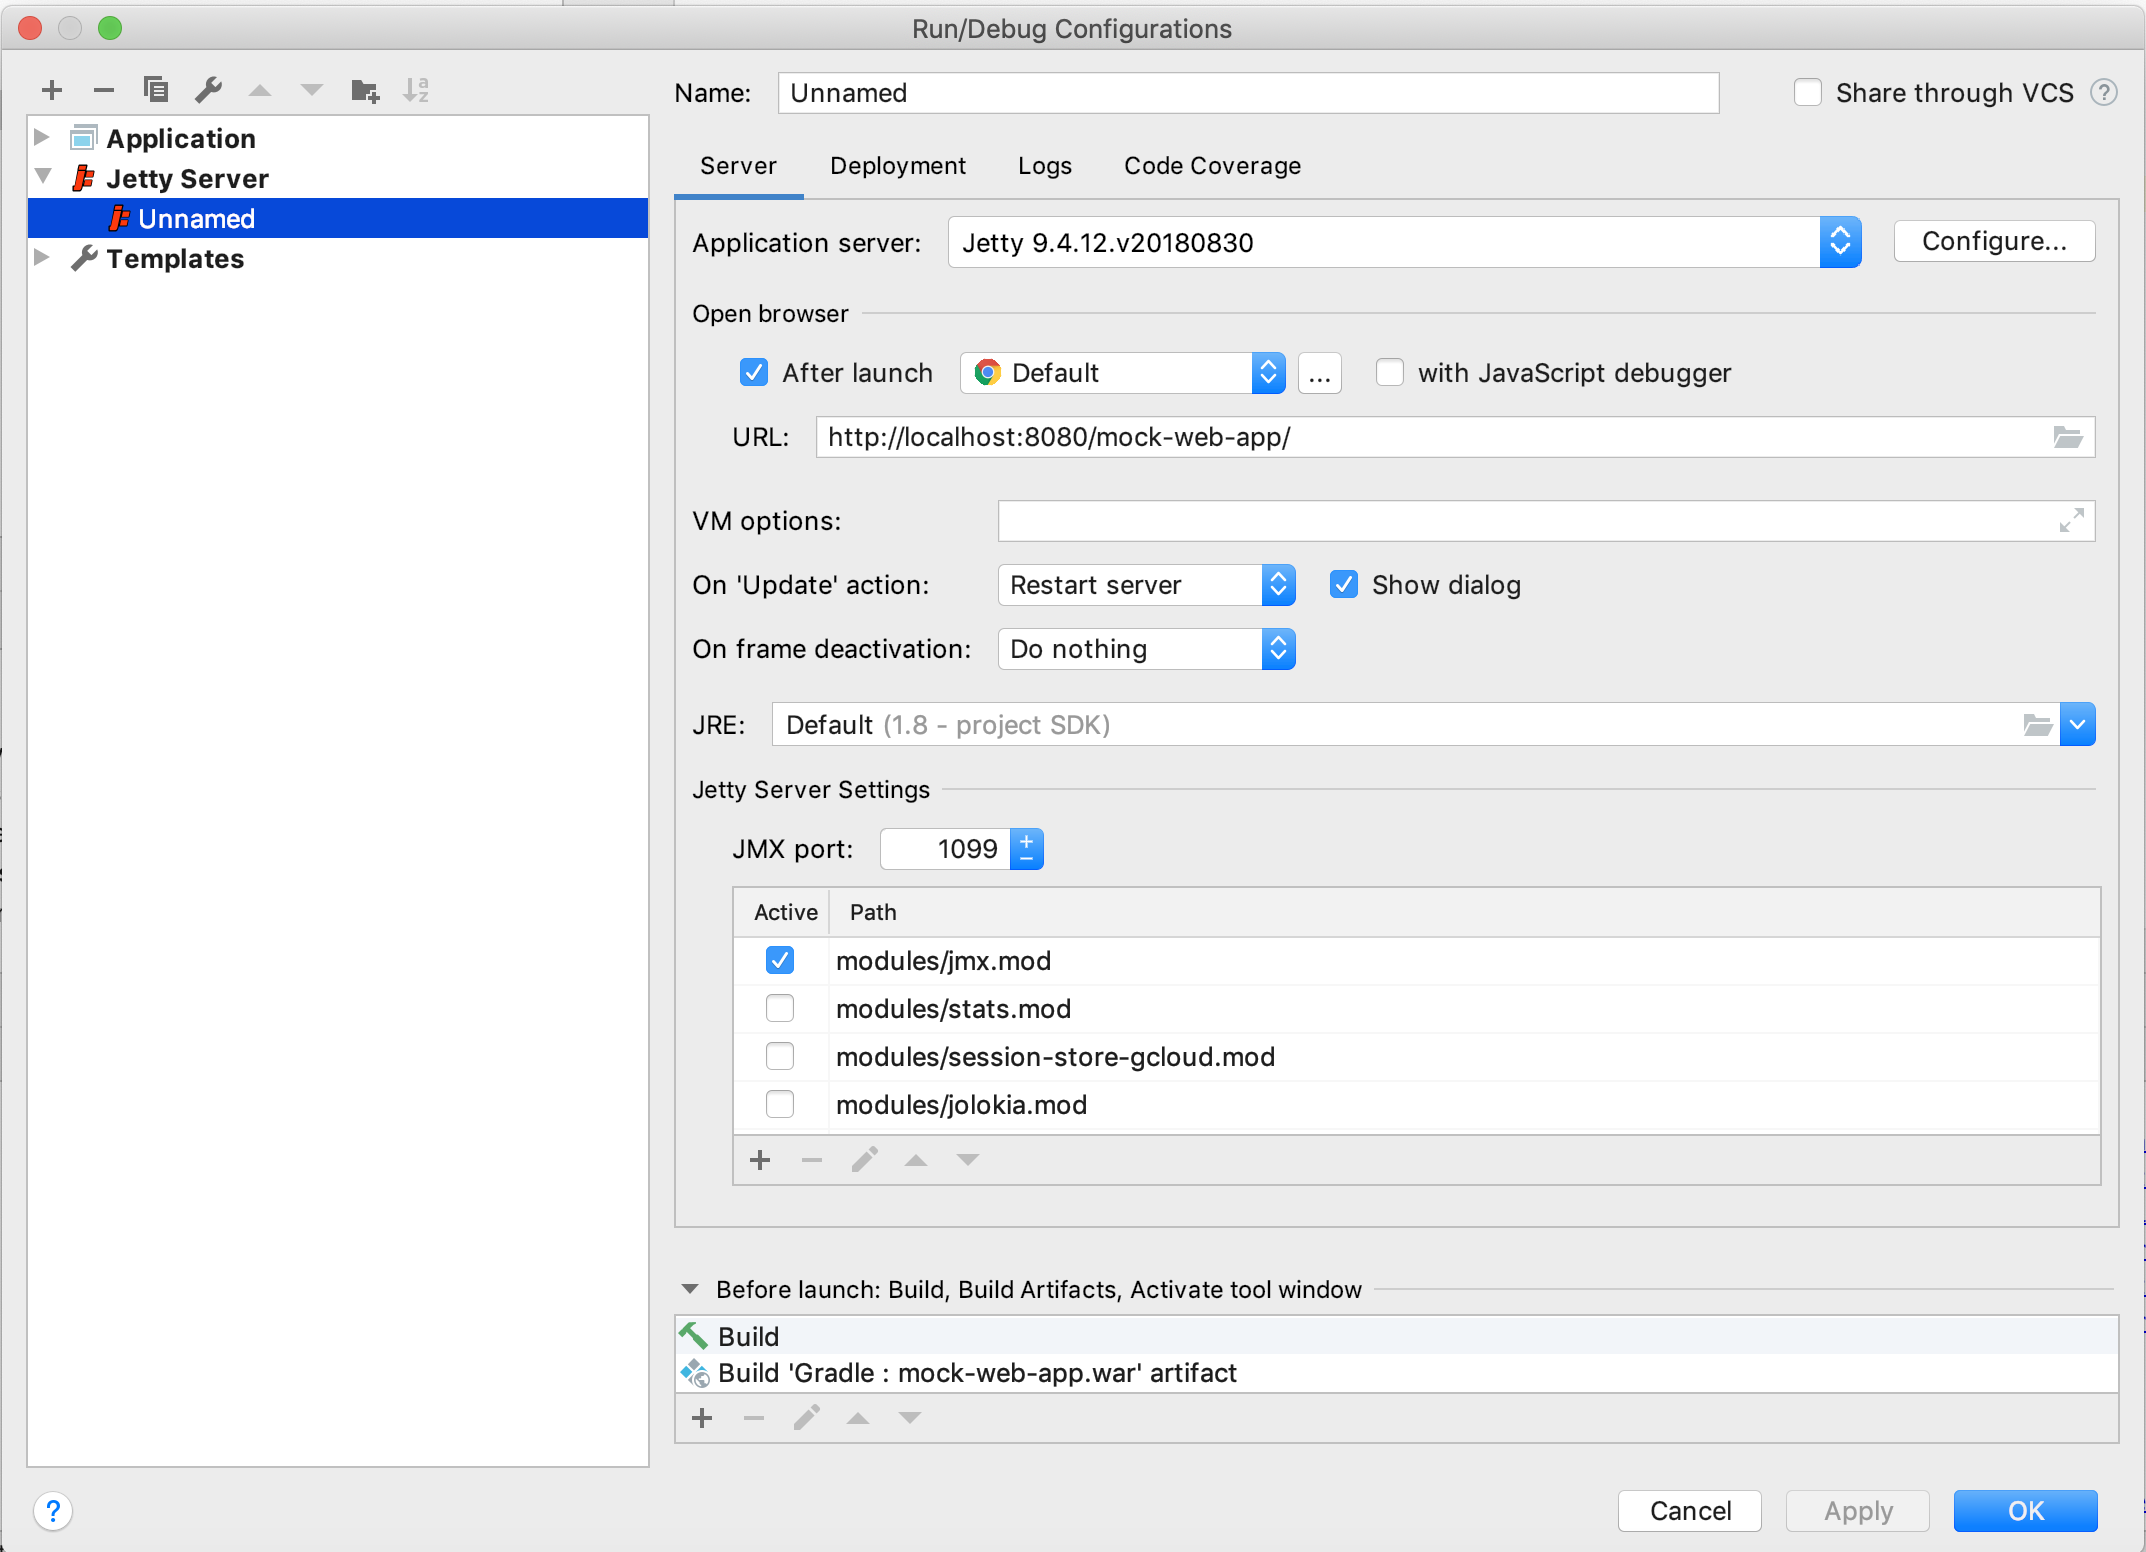
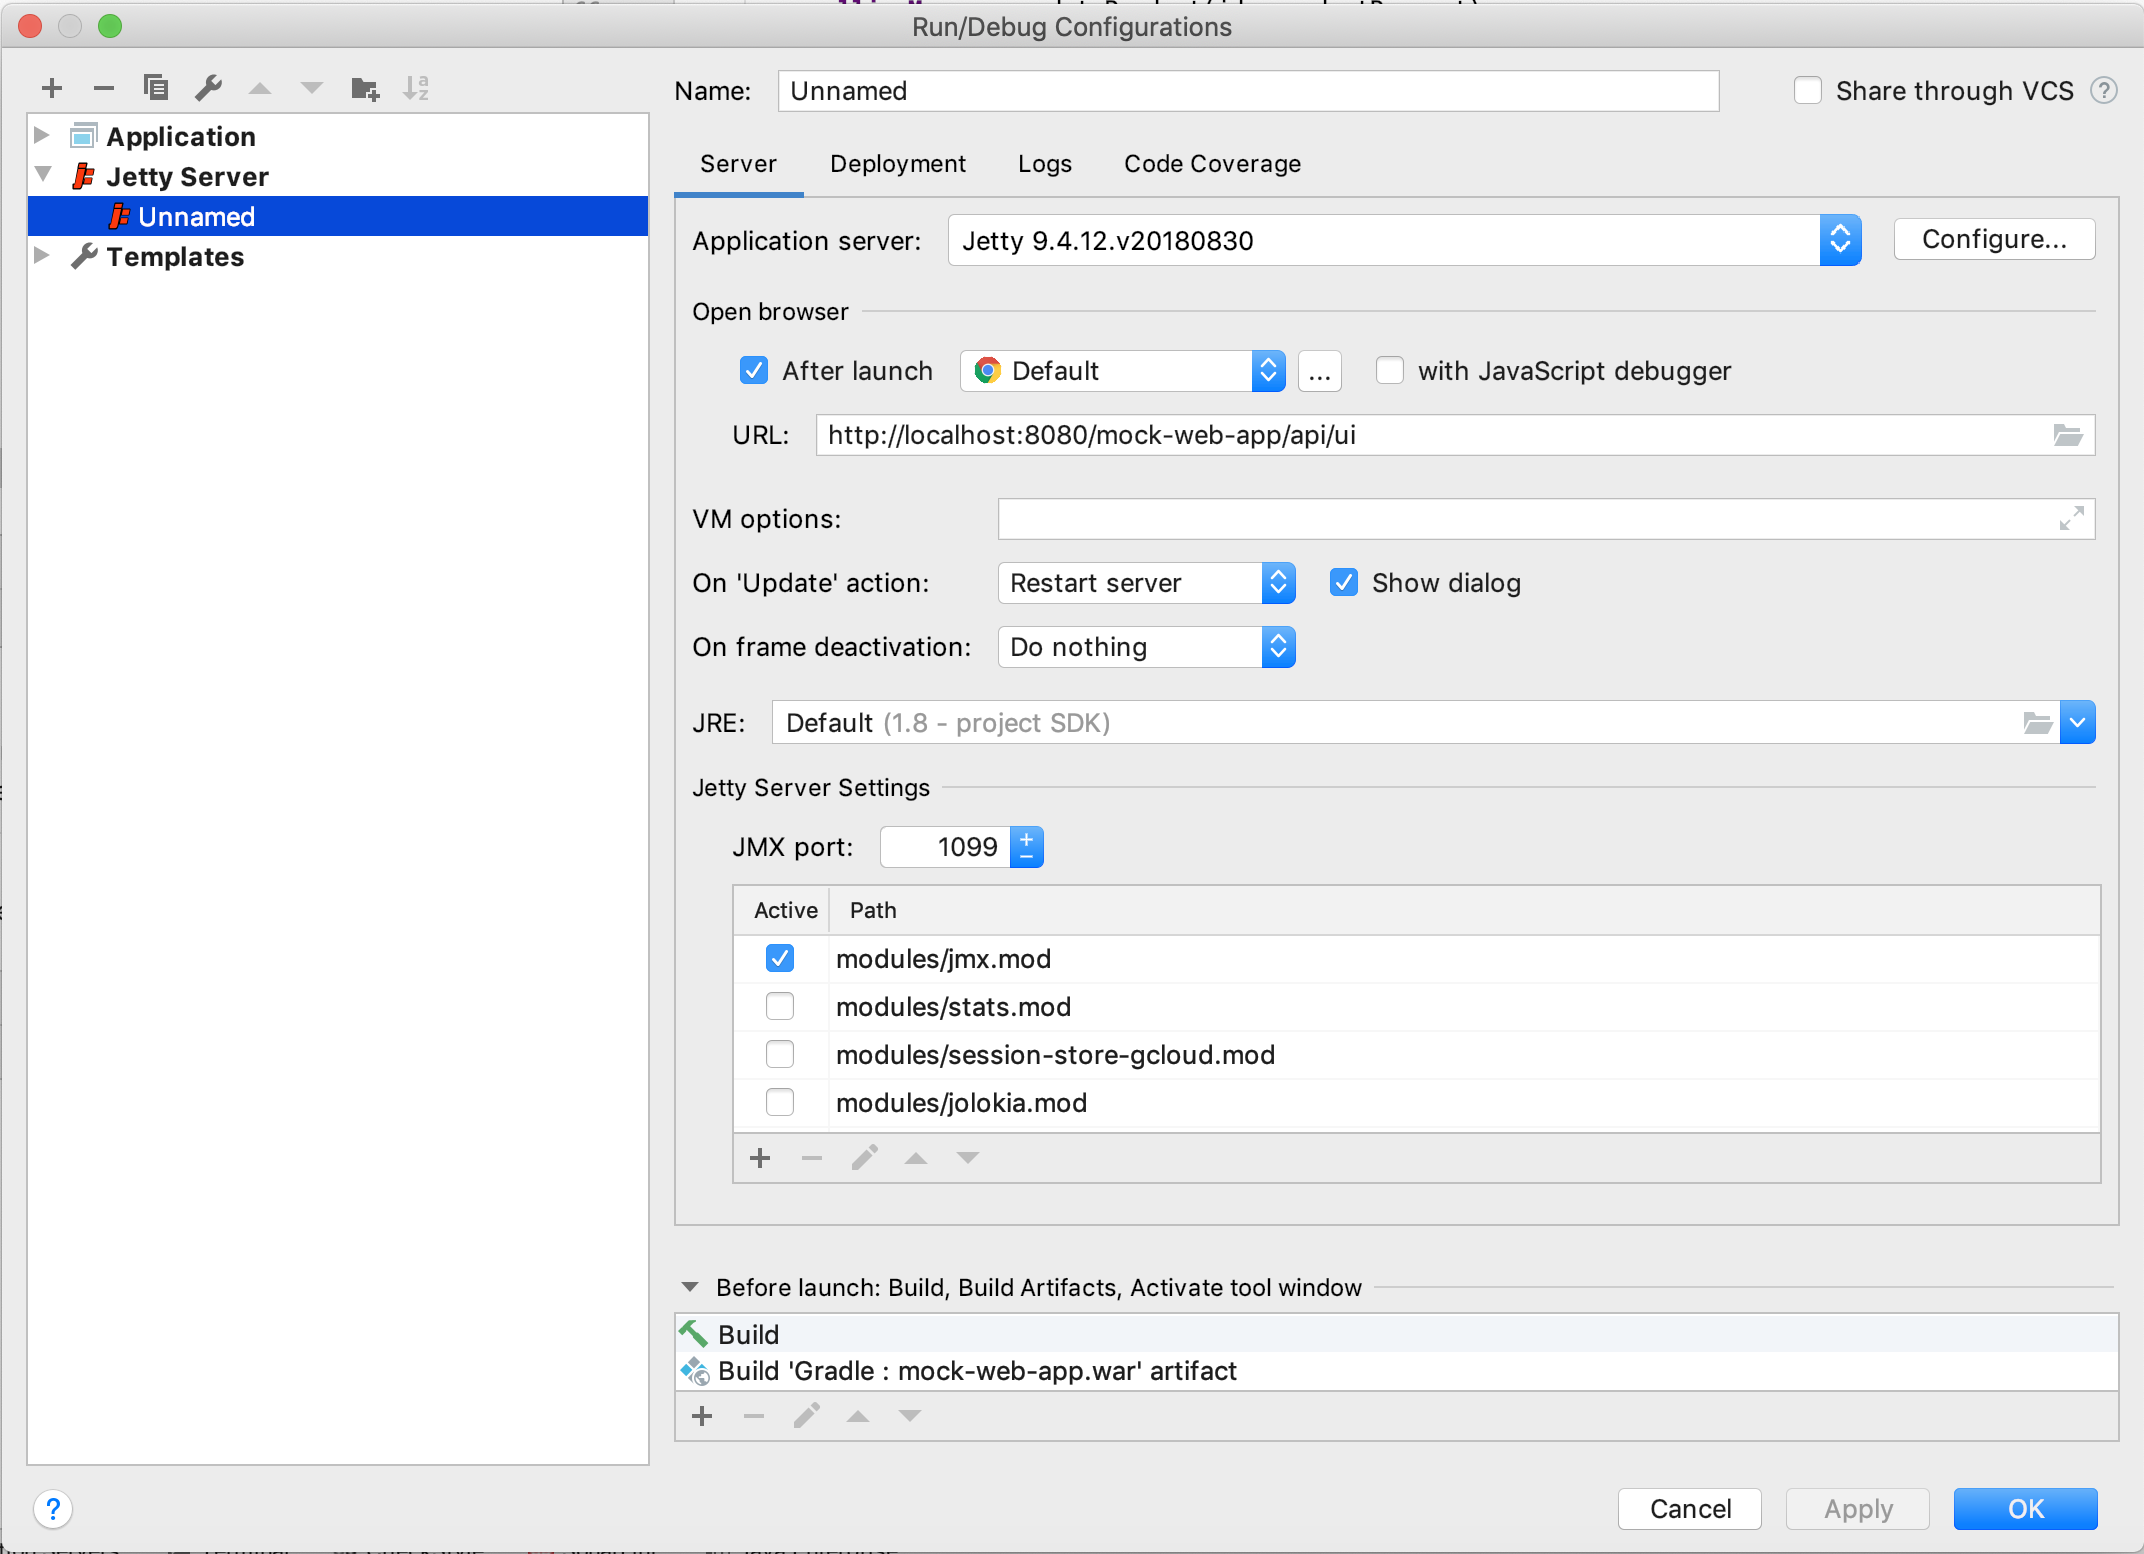
clean up postman output

diff --git a/src/main/java/asellion/mock/controllers/AsellionController.java b/src/main/java/asellion/mock/controllers/AsellionController.java
@@ -27,6 +27,7 @@ public final class AsellionController {
     private static final String GET_ONE_PRODUCT_ENDPOINT = "/products/{id}";
     private static final String UPDATE_PRODUCT_ENDPOINT = "/products/{id}";
     private static final String CREATE_PRODUCT_ENDPOINT = "/products";
+    private static final String UI_ENDPOINT = "/ui";
 
     private final AsellionManager asellionManager;
 
@@ -49,7 +50,10 @@ public final class AsellionController {
     @Path(GET_ALL_PRODUCTS_ENDPOINT)
     public String getAllProducts(@Context UriInfo uriInfo, @Context HttpHeaders hh) {
         List<AsellionManager.ProductResponse> entity = (List<AsellionManager.ProductResponse>) asellionManager.getAllProducts().getEntity();
-        Map<String, String> collect = entity.stream().collect(toMap(product -> String.valueOf(product.id), product -> HtmlMethods.mapAsJson(product.toMap())));
+        Map<String, String> collect = entity.stream().collect(toMap(
+            product -> String.valueOf(product.id),
+            product -> HtmlMethods.mapAsJson(product.toMap())
+        ));
         return HtmlMethods.mapAsJson(collect);
     }
 
@@ -70,5 +74,17 @@ public final class AsellionController {
         AsellionManager.ProductRequest productRequest = HtmlMethods.parseRequest(rawProductRequest);
         asellionManager.createProduct(productRequest);
         return HtmlMethods.reportSuccess();
+    }
+
+    @GET
+    @Produces(MediaType.TEXT_HTML)
+    @Path(UI_ENDPOINT)
+    public String uiEndpoint(@Context UriInfo uriInfo, @Context HttpHeaders hh) {
+        List<AsellionManager.ProductResponse> entity = (List<AsellionManager.ProductResponse>) asellionManager.getAllProducts().getEntity();
+        Map<String, String> collect = entity.stream().collect(toMap(
+            product -> String.valueOf(product.id),
+            product -> HtmlMethods.mapAsJson(product.toMap())
+        ));
+        return HtmlMethods.mapAsJsonHtml(collect);
     }
 }

diff --git a/src/main/java/asellion/mock/HtmlMethods.java b/src/main/java/asellion/mock/HtmlMethods.java
@@ -22,6 +22,15 @@ public class HtmlMethods {
 
     public static String mapAsJson(Map<String, String> map) {
         StringBuilder b = new StringBuilder("{");
+        for (Map.Entry<String, String> entry : map.entrySet()) {
+            b.append("\t\"").append(entry.getKey()).append("\": \"").append(entry.getValue()).append("\",");
+        }
+        b.append("}");
+        return b.toString();
+    }
+
+    public static String mapAsJsonHtml(Map<String, String> map) {
+        StringBuilder b = new StringBuilder("{");
         b.append("<br>");
         for (Map.Entry<String, String> entry : map.entrySet()) {
             b.append("\t\"").append(entry.getKey()).append("\": \"").append(entry.getValue()).append("\",").append("<br>");

diff --git a/README.md b/README.md
@@ -2,4 +2,10 @@ I did not get the time to manage to run this application from the command line. 
 
 https://www.eclipse.org/jetty/documentation/current/quickstart-deploying-webapps.html
 
-However, I was not able to get it working, so currently it runs within IntelliJ only. Once the configuration is set up as indicated above, the application can then be run by clicking on the "Play" button as indicated in HowToRun.png
+However, I was not able to get it working, so currently it runs within IntelliJ only. Once the configuration is set up as indicated above, the application can then be run by clicking on the "Play" button as indicated in HowToRun.png. Upon completion of deployment, Chrome will open with a page that displays the list of products.
+
+-----------------
+
+***Improvements***
+
+The database-access object (DAO) currently in place is really a mock that stores all the information in memory, as I didn't have time to set up a database. However, I created a class RealBackendDao where I explain how I would have implemented the communication with the database. The database itself would have been implemented with Postgres.
